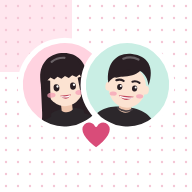
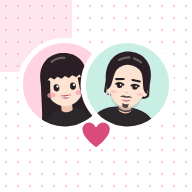
ゆうとのアイコンを描き直し（センター分け・ひげ・ピアス）
Claude-Session: https://claude.ai/code/session_016GTkFK2NwvbguZxrakCa3F

Changed region(s): [[0.5312, 0.25, 0.8125, 0.5938]]

diff --git a/public/app.js b/public/app.js
@@ -36,19 +36,26 @@ const AVA = {
     '</svg>',
   yuto: '<svg viewBox="0 0 64 64" aria-hidden="true" focusable="false">' +
     '<rect class="bg-y" width="64" height="64"/>' +
+    '<path class="h" d="M16 30C14 16 22 8 32 8s18 8 16 22l.4 8.6c-1.4 1.6-3 2.4-5 2.4H20.6c-2 0-3.6-.8-5-2.4Z"/>' +
     '<path class="t" d="M9 64c0-11 10-16 23-16s23 5 23 16Z"/>' +
-    '<path class="kd" d="M27.5 44h9v6.5c-2.5 2.4-6.5 2.4-9 0Z"/>' +
-    '<path class="cl" d="M26.8 49.4q5.2 3.4 10.4 0"/>' +
-    '<ellipse class="k" cx="18.6" cy="34.5" rx="2.4" ry="3.2"/><ellipse class="k" cx="45.4" cy="34.5" rx="2.4" ry="3.2"/>' +
-    '<ellipse class="k" cx="32" cy="33.6" rx="13.5" ry="15"/>' +
-    '<path class="h" d="M18 32C15 19 21 9.5 33 9.5c11 0 17.5 7.5 14.2 21.5-1.2-5-3.5-8.2-7.2-9.8-3 3.4-8.6 5.3-14.5 5.5-3.2.2-5.6 2-7.5 5.3Z"/>' +
-    '<path class="h" d="M33 20.5c-2.8 4-6 6.6-10.5 7.6 2.6-3.4 5.4-6.4 10.5-7.6Z"/>' +
-    '<path class="sh" d="M27 13.6c3.4-1.7 7.6-1.9 11-.6"/>' +
-    '<path class="ln" d="M23.6 29.6q2.7-1.3 5.3-.1M35.3 29.4q2.6-1.1 5.2.3"/>' +
-    '<ellipse class="h" cx="26.6" cy="34.2" rx="1.9" ry="2.2"/><ellipse class="h" cx="37.4" cy="34.2" rx="1.9" ry="2.2"/>' +
-    '<circle class="w" cx="27.3" cy="33.4" r=".75"/><circle class="w" cx="38.1" cy="33.4" r=".75"/>' +
-    '<ellipse class="b" cx="22.4" cy="39.4" rx="2.6" ry="1.5"/><ellipse class="b" cx="41.6" cy="39.4" rx="2.6" ry="1.5"/>' +
-    '<path class="m" d="M26.5 40.2q5.5 5.6 11 0Z"/><path class="w" d="M27.2 40.5q4.8 1.4 9.6 0l-.5 1q-4.3 1.2-8.6 0Z"/>' +
+    '<path class="kd" d="M27.5 45h9v6c-2.5 2.4-6.5 2.4-9 0Z"/>' +
+    '<path class="cl" d="M26.8 49.6q5.2 3.4 10.4 0"/>' +
+    '<ellipse class="k" cx="32" cy="33.2" rx="13" ry="15.6"/>' +
+    '<ellipse class="k" cx="19.2" cy="36.4" rx="2.2" ry="3"/><ellipse class="k" cx="44.8" cy="36.4" rx="2.2" ry="3"/>' +
+    '<path class="h" fill-opacity=".13" d="M20.6 38.5q1.4 8 11.4 10.4 10-2.4 11.4-10.4-.6 10.6-11.4 12.4-10.8-1.8-11.4-12.4Z"/>' +
+    '<path class="h" d="M32 11.5C26 12 21 15.5 19.5 21c-1.2 4.5-1.4 10-2.6 16.5 1.6-.6 2.8-2 3.4-4 .9-4.4 1.2-8.6 2.8-11.6 1.8-3.4 5-5.6 8.9-6.6Z"/>' +
+    '<path class="h" d="M32 11.5C38 12 43 15.5 44.5 21c1.2 4.5 1.4 10 2.6 16.5-1.6-.6-2.8-2-3.4-4-.9-4.4-1.2-8.6-2.8-11.6-1.8-3.4-5-5.6-8.9-6.6Z"/>' +
+    '<path class="sh" d="M24 14.8c2.4-1.6 5-2.4 7.4-2.6M40 14.8c-1.6-1.1-3.4-1.8-5.2-2.2"/>' +
+    '<circle class="er" cx="18.6" cy="40.4" r="1.25"/>' +
+    '<path class="ln" stroke-width="1.8" d="M23.4 28.8l5.4-.6M35.2 28.2l5.4.6"/>' +
+    '<ellipse class="h" cx="26.4" cy="33.2" rx="2" ry="1.75"/><ellipse class="h" cx="37.6" cy="33.2" rx="2" ry="1.75"/>' +
+    '<path class="ln" stroke-width="1.1" d="M23.8 32.2q2.6-1.5 5.2 0M35 32.2q2.6-1.5 5.2 0"/>' +
+    '<circle class="w" cx="27.1" cy="32.6" r=".6"/><circle class="w" cx="38.3" cy="32.6" r=".6"/>' +
+    '<path class="kd" d="M30.9 37.9q1.1.7 2.2 0l-.5-1.1h-1.2Z"/>' +
+    '<ellipse class="b" fill-opacity=".55" cx="22.6" cy="38" rx="2.3" ry="1.2"/><ellipse class="b" fill-opacity=".55" cx="41.4" cy="38" rx="2.3" ry="1.2"/>' +
+    '<path class="h" fill-opacity=".88" d="M27.4 41q2.3-1.5 4.6-.5 2.3-1 4.6.5-2.3-.1-4.6.5-2.3-.6-4.6-.5Z"/>' +
+    '<path class="m" d="M28.9 42.6q3.3 1.9 6.6-.2-.6 1.6-3.3 1.8-2.6-.1-3.3-1.6Z"/>' +
+    '<path class="h" fill-opacity=".82" d="M29.6 45.6q2.4 1.2 4.8 0l-.4 2.6q-2 1.2-4 0Z"/>' +
     '</svg>'
 };
 const ava = (who, sz) => '<span class="ava"' + (sz ? ' style="--sz:' + sz + 'px"' : '') + '>' + AVA[who] + '</span>';

diff --git a/public/app.css b/public/app.css
@@ -90,6 +90,7 @@ svg{ display:block }
 .ava .w{ fill:#fff }
 .ava .ln{ fill:none; stroke:var(--hair); stroke-width:1.5; stroke-linecap:round }
 .ava .sh{ fill:none; stroke:#fff; stroke-opacity:.3; stroke-width:1.6; stroke-linecap:round }
+.ava .er{ fill:none; stroke:#E4DDE2; stroke-width:1.1 }
 .ava .cl{ fill:none; stroke:#4A4247; stroke-width:1.2; stroke-linecap:round }
 .pair{ position:relative; display:flex; flex:none; padding-bottom:4px }
 .pair .ava{ --sz:56px; box-shadow:0 0 0 3px var(--die), 0 4px 10px var(--shadow) }
